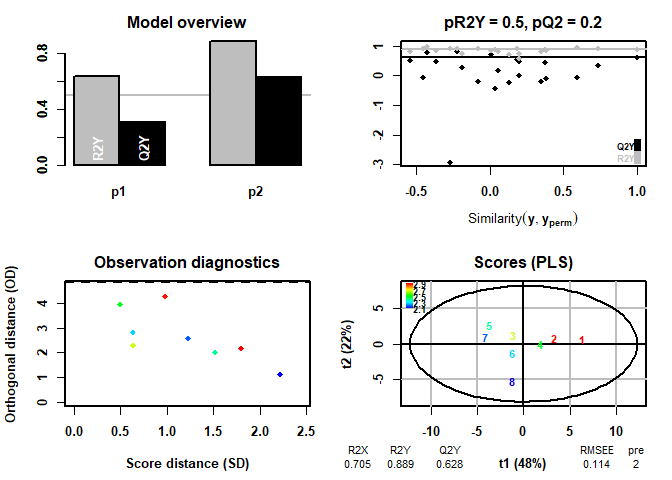
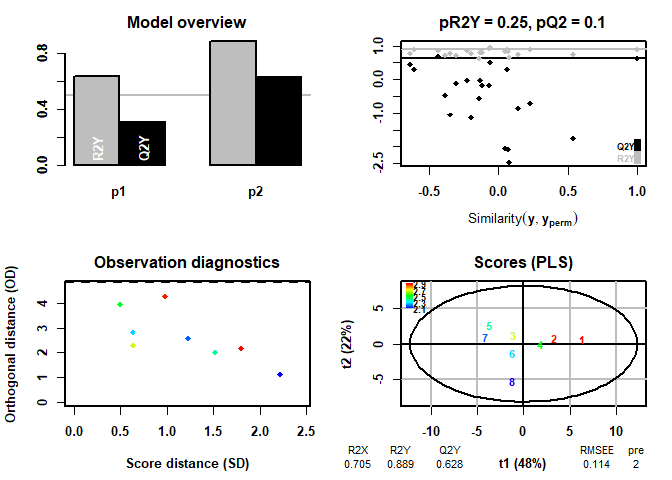
readme

diff --git a/README.md b/README.md
@@ -122,7 +122,7 @@ PLSR = ropls::opls(cytokines,
 #> 8 samples x 31 variables and 1 response
 #> standard scaling of predictors and response(s)
 #>       R2X(cum) R2Y(cum) Q2(cum) RMSEE pre ort pR2Y pQ2
-#> Total    0.705    0.889   0.628 0.114   2   0  0.5 0.2
+#> Total    0.705    0.889   0.628 0.114   2   0 0.25 0.1
 ```
 
 ![](tools/README-Run%20PLSR-1.png)
@@ -158,44 +158,11 @@ Iba1 (positive LV1 scores), while negative loadings are associated with
 negative LV1 scores.
 
 ``` r
-loadings_chart(loadings=PLSR_rot30$P1, 
+load1 = loadings_chart(loadings=PLSR_rot30$P1, 
                component_str = "LV1")
 ```
 
 ![](tools/README-First%20Loading%20Chart-1.png)
-
-    #>       [,1]
-    #>  [1,]  0.7
-    #>  [2,]  1.9
-    #>  [3,]  3.1
-    #>  [4,]  4.3
-    #>  [5,]  5.5
-    #>  [6,]  6.7
-    #>  [7,]  7.9
-    #>  [8,]  9.1
-    #>  [9,] 10.3
-    #> [10,] 11.5
-    #> [11,] 12.7
-    #> [12,] 13.9
-    #> [13,] 15.1
-    #> [14,] 16.3
-    #> [15,] 17.5
-    #> [16,] 18.7
-    #> [17,] 19.9
-    #> [18,] 21.1
-    #> [19,] 22.3
-    #> [20,] 23.5
-    #> [21,] 24.7
-    #> [22,] 25.9
-    #> [23,] 27.1
-    #> [24,] 28.3
-    #> [25,] 29.5
-    #> [26,] 30.7
-    #> [27,] 31.9
-    #> [28,] 33.1
-    #> [29,] 34.3
-    #> [30,] 35.5
-    #> [31,] 36.7
 
 ### PLSR with Leave One Out Cross Validation
 
@@ -211,54 +178,21 @@ PLSR_LOOCV = opls_LOOCV(cytokines,
 #> PLS
 #> 8 samples x 31 variables and 1 response
 #> standard scaling of predictors and response(s)
-#>       R2X(cum) R2Y(cum) Q2(cum) RMSEE pre ort pR2Y pQ2
-#> Total    0.705    0.889   0.628 0.114   2   0 0.25 0.1
+#>       R2X(cum) R2Y(cum) Q2(cum) RMSEE pre ort pR2Y  pQ2
+#> Total    0.705    0.889   0.628 0.114   2   0 0.35 0.05
 ```
 
 ![](tools/README-PLSR%20with%20LOOCV-1.png)
 
 ``` r
 PLSR_LOOCV_rot30 = rotate_opls_LOOCV(PLSR_LOOCV,degrees=30)
-loadings_chart_sd(loadings=PLSR_LOOCV_rot30$P1, 
+load1_LOOCV = loadings_chart_sd(loadings=PLSR_LOOCV_rot30$P1, 
                   sd = PLSR_LOOCV_rot30$sd_P1_LOOCV,
                   component_str = "LV1",
                   lim = 1.2) # set a higher axis limit to see full error bars
 ```
 
 ![](tools/README-PLSR%20LOOCV%20Loadings-1.png)
-
-    #>       [,1]
-    #>  [1,]  0.7
-    #>  [2,]  1.9
-    #>  [3,]  3.1
-    #>  [4,]  4.3
-    #>  [5,]  5.5
-    #>  [6,]  6.7
-    #>  [7,]  7.9
-    #>  [8,]  9.1
-    #>  [9,] 10.3
-    #> [10,] 11.5
-    #> [11,] 12.7
-    #> [12,] 13.9
-    #> [13,] 15.1
-    #> [14,] 16.3
-    #> [15,] 17.5
-    #> [16,] 18.7
-    #> [17,] 19.9
-    #> [18,] 21.1
-    #> [19,] 22.3
-    #> [20,] 23.5
-    #> [21,] 24.7
-    #> [22,] 25.9
-    #> [23,] 27.1
-    #> [24,] 28.3
-    #> [25,] 29.5
-    #> [26,] 30.7
-    #> [27,] 31.9
-    #> [28,] 33.1
-    #> [29,] 34.3
-    #> [30,] 35.5
-    #> [31,] 36.7
 
 Finally, we can assess the performance of the PLSR by computing a
 regression of Iba1 with scores on LV1. We can show this graphically
